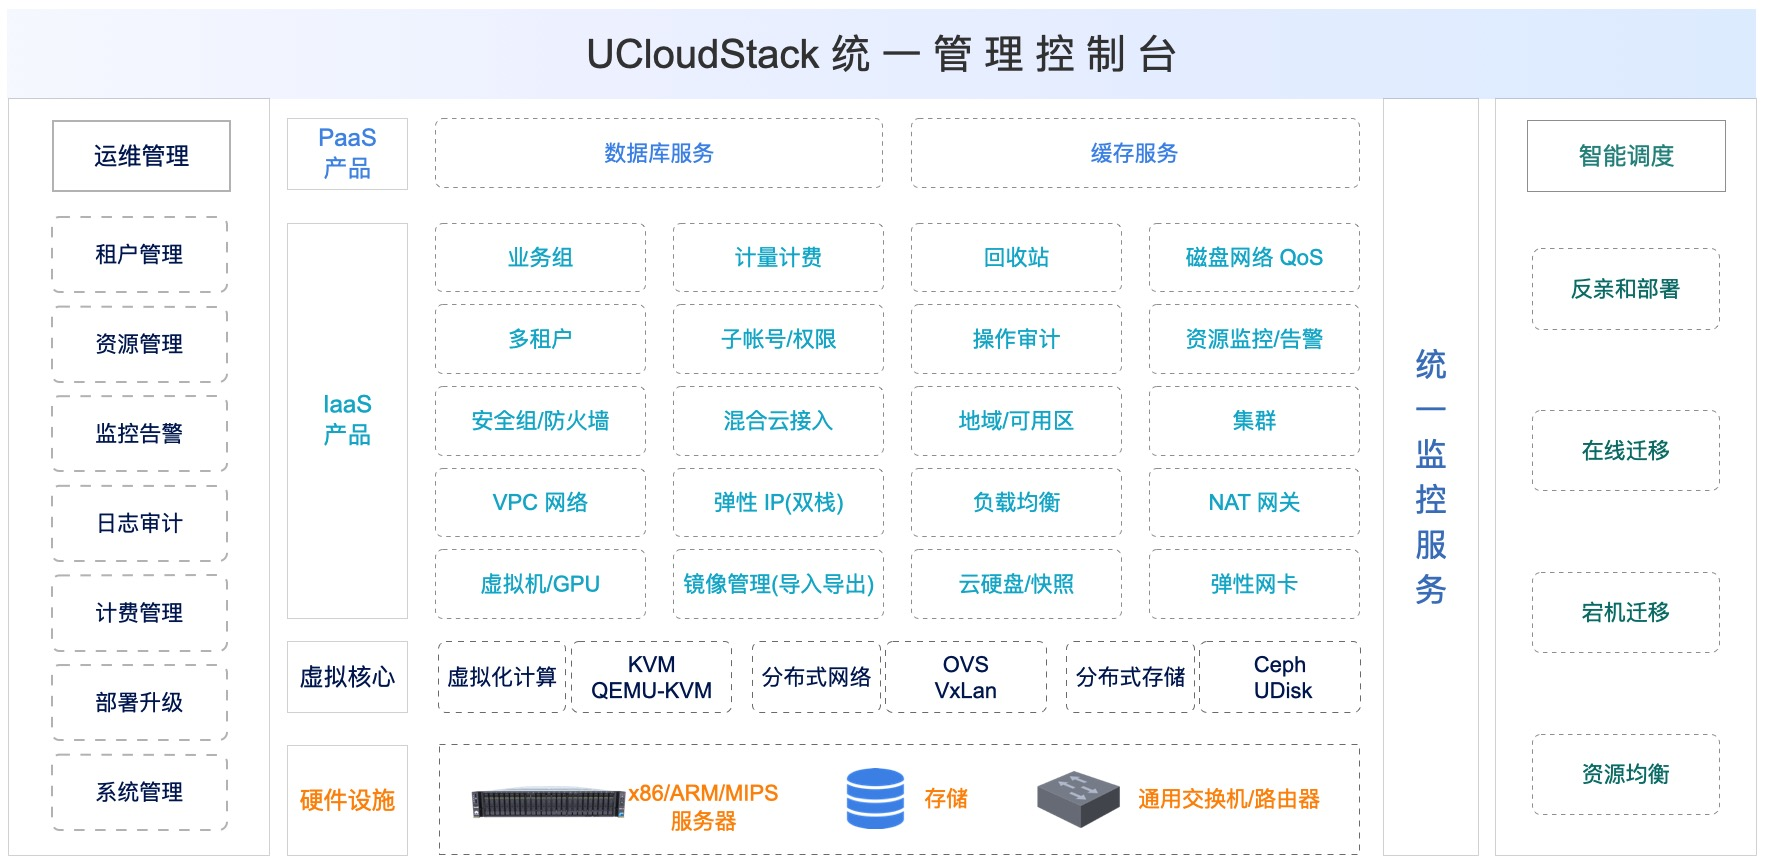
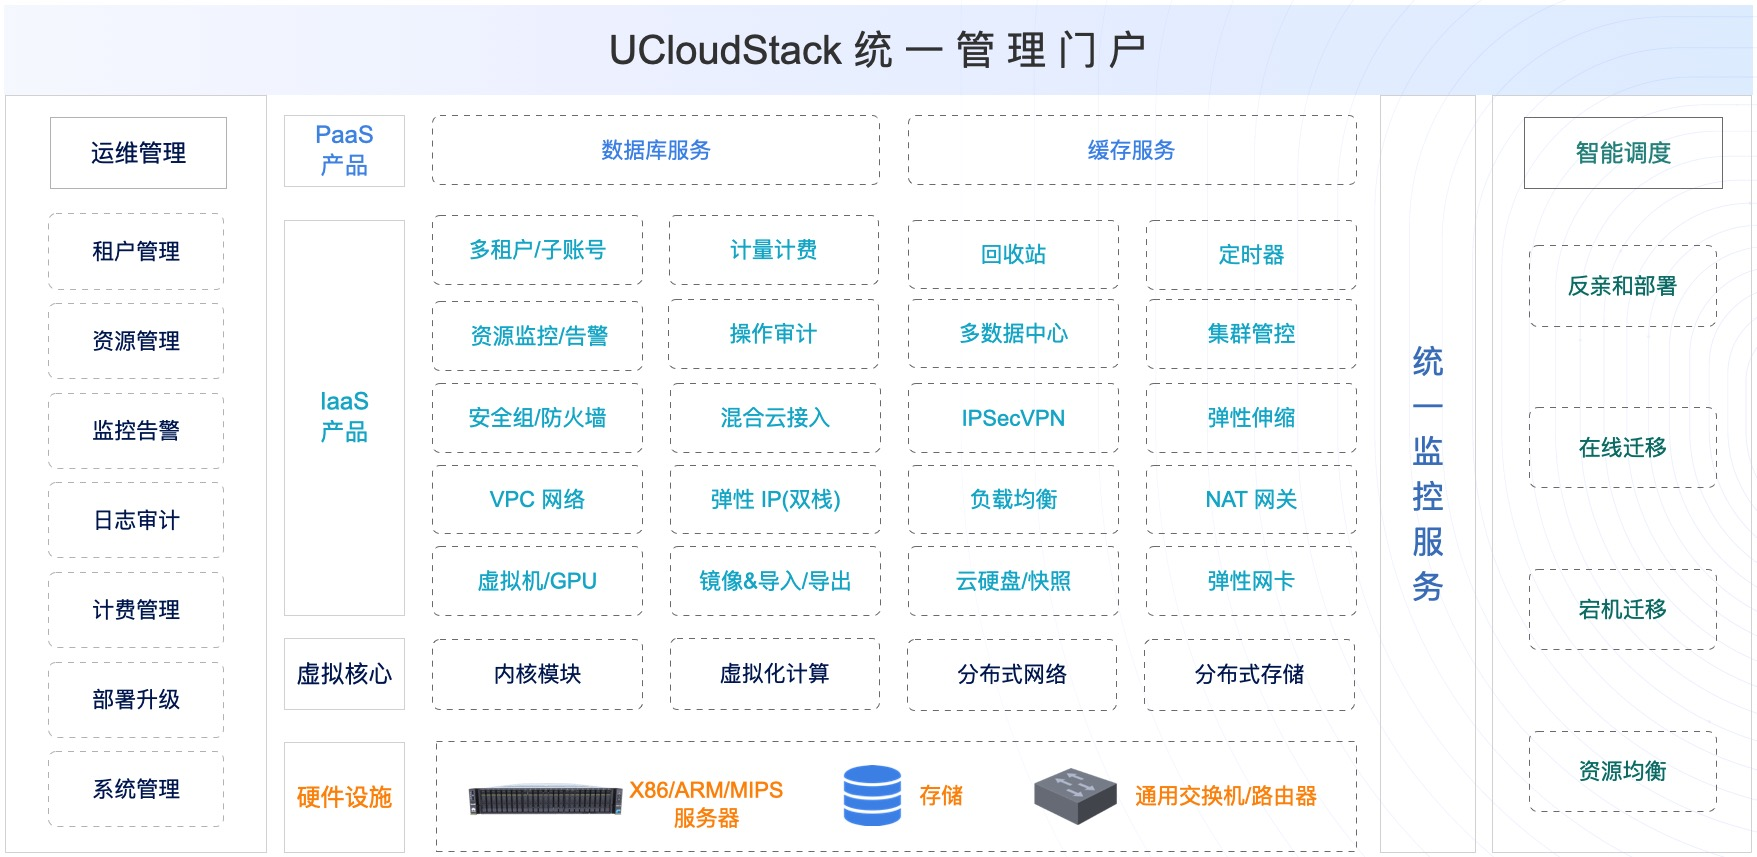
更新产品简介和用户手册的产品介绍

diff --git a/scenario.md b/scenario.md
@@ -2,69 +2,33 @@
 
 ### 虚拟化&云化
 
-**适用场景**
+通过将业务系统和内部应用部署至UCloudStack平台，可为企业提供一套集虚拟化、分布式存储、SDN 网络为一体的私有云平台。平台支持多数据中心管理，可将业务部署至多个数据中心构建灾备云或边缘计算，同时支持与公有云无缝打通，灵活调用公有云能力，帮助企业快速构建安全可靠的业务架构。
 
-* 业务应用虚拟化环境；
-* 私有云业务场景；
-* 资源统一管理；
-* 私有云国产化；
+### 业务快速交付
 
-**UCloudStack 应对方案**
+平台服务所见即所得，可通过自服务云管理平台一键部署并管理业务交付所需的基础设施和中件间，包括在线扩容、负载分发、数据库缓存及监控日志等应用基础环境服务能力；同时平台支持镜像导入导出，可方便快捷将业务系统迁移至云平台，并可对所有业务系统的资源进行统一管理。
 
-* 弹性计算、分布式网络及分布式存储构建基础设施虚拟化环境；
-* 软件定义网络功能，包括二层网络、子网、NAT 网关、负载均衡等；
-* 云平台可私有化轻量级部署，支持纯软件及软硬一体交付；
-* 提供云管理平台，对物理资源、虚拟资源及业务应用统一管理；
-* 兼容 x86 和 ARM 架构，适配国产化芯片、服务器及操作系统。
+### 超融合一体机
 
-### 快速交付
+平台提供一体机交付模式，多款机型应用不同业务场景，集成UCloudStack私有云平台，出厂预装开箱即用，服务模块热插拔可按需部署，提供虚拟化、网络、存储、数据库、缓存及云管等一系列云服务能力；同时可通过与IDC数据中心互联，构建混合云解决方案。
 
-**适用场景**
+### 企业专有云
 
-* 业务快速部署扩容；
-* 业务无缝迁移上云；
-* 应急业务系统快速交付；
-* 资源统一调度，数据存储安全性；
+UCloudStack提供租户控制台和管理员控制台，支持多租户、账户注册、计量计费等功能特性，同时为云平台管理者提供运营运维管理功能，包括资源管理、租户管理、价格配置、资源规格配置、部署升级及监控日志等服务，为企业提供行业专有云解决方案。
 
-**UCloudStack 应对方案**
+![industry](_media/industry.png)
 
-* 公有云一致体验的简捷界面，一键快速部署；
-* 可视化运维，即开即用，支持在线扩容；
-* 提供在线迁移产品及方案，快速迁移上云；
-* 智能调度系统，保证所有计算、存储、网络资源的统一合理调度；
-* 分布式存储系统，数据三副本存储，保证数据存储安全性。
+UCloudStack 轻量级私有云属于 IaaS+PaaS 复合型产品，并可按需搭载大数据、安全屋、AI 等公有云产品，适用于全行业客户需要云化且私有部署的业务应用上云场景，典型行业如下：
 
-### 开发测试环境
+* **政府、央企、军工、交通、制造型企业**
 
-**适用场景**
+  对外承担公共服务职责，内外部业务应用系统和商用软件需要快速交付、资源共享、智能调度及统一管理等上云需求的行业客户。
 
-- POC 演示验证；
-- 业务产品 Demo 展示；
-- 教育医疗实验信息环境；
-- 政府军工科研信息环境；
+* **泛互联网行业，如B2B电商、大数据、教育等企业**
 
-**UCloudStack 应对方案**
+  需要构建行业专属云，结合自有SaaS业务为其用户提供整体解决方案的行业客户。
 
-- 1 台服务器即可 POC ，同时提供超融合云一体机；
-- 多租户隔离并共享底层物理资源，多实验环境互不影响；
-- 计量计费，实现多租户资源按时、按月、按年计费；
-- 支持 GPU 虚拟机资源，应对人工智能及科研信息环境；
-- 磁盘/网络 QoS 、安全组、配额，支撑多租户实验环境。
+* **人工智能和科研实验室行业**
 
-### 应用基础环境
-
-**适用场景**
-
-- 5G 边缘计算业务；
-- 混合云及灾备云；
-- SaaS 应用的基础运行环境；
-- IT 软硬件一体交付运维；
-
-**UCloudStack 应对方案**
-
-- 管理计算可分离部署，支持跨地域统一管理所有节点；
-- 混合云接入支持与 IDC 数据中心及物理网络互通，构建混合云环境；
-- 支持地域/可用区，通过跨可用区容灾 LB 及 DB ，组建两地三中心；
-- 提供计算、存储、网络、数据库及缓存服务，为 SaaS 应用提供可靠基础环境；
-- 虚拟化 IT 基础设施，云化部署业务服务，混合接入数据中心，统一云管理及运营管理平台。
+  需要大量可快速交付且私有化部署的虚拟化环境，用于科研项目和训练系统的快速部署和管理的行业客户。
 

diff --git a/README.md b/README.md
@@ -2,21 +2,20 @@
 
 ---
 
-UCloudStack 是一个企业专有云 IaaS+PaaS 平台，提供虚拟化、SDN 网络、分布式存储、数据库缓存等核心服务的统一管理、资源调度编排、多租户管理、监控日志及云运营运维管理控制台和 APIs 等一整套云资源管理能力，帮助更多企业数字化转型。
+UCloudStack 企业私有云平台，提供虚拟化、SDN 网络、分布式存储、数据库缓存等核心服务的统一管理、资源调度、监控日志及运营运维等一整套云资源管理能力，助力企业数字化转型。
 
 ![core](_media/core.png)
 
-UCloudStack 定位为新一代轻量级企业专有云平台，1 台服务器可 POC 验证，3 台服务器即可构建生产环境，提供纯软件交付、软硬一体交付及超融合一体机交付等解决方案，针对受安全或合规限制，短期无法使用公有云，但有云化或虚拟化需求的用户场景。
+平台基于 UCloud 公有云基础架构，复用内核及核心虚拟化组件，将公有云架构私有化部署，具有自主可控、稳定可靠、持续进化及开放兼容等特点，企业可通过控制台或 APIs 快速构建资源及业务，支持与公有云无缝打通，灵活调用公有云能力，帮助企业快速构建安全可靠的业务架构。
 
-平台具有安全稳定、便捷高效、智能可靠、异构兼容四大特性，用户可通过管理控制台或 APIs 快速安全的构建和部署业务资源及数据中心，支持与 UCloud 公有云无缝打通，灵活调用公有云能力，帮助用户构建一个安全可靠的混合云架构。
-
-UCloudStack 基于多年公有云基础架构，通过纯软件定义实现高稳定、高可用及高兼容性的云平台，兼容 x86 和 ARM 架构，不强行绑定硬件及品牌，支持已有设备及传统商业存储的异构及统一管理，有效降低用户管理维护成本；同时产品通过与国产化飞腾芯片、华为鲲鹏及银河麒麟操作系统的兼容性测试，为用户提供一套安全可靠且自主可控的云服务平台。
+UCloudStack定位为轻量级交付，3 节点即可构建生产环境且可平滑扩容，不强行绑定硬件及品牌，兼容 X86 和ARM 架构，并提供统一资源调度和管理，支持纯软件、超融合一体机及一体机柜多种交付模式，有效降低用户管理维护成本，为用户提供一套安全可靠且自主可控的云服务平台。
 
 ### 文档目录
 
 - 产品简介
 
   - [产品概述](UCloudStack/README.md)
+  - [客户痛点](UCloudStack/painpoint.md)
   - [产品架构](UCloudStack/arch.md)
   - [核心功能](UCloudStack/features.md)
   - [产品特性](UCloudStack/advantages.md)

diff --git a/painpoint.md b/painpoint.md
@@ -1,0 +1,38 @@
+# 客户痛点&解决方案
+
+### 自建私有云的痛点
+
+* 可控性差
+
+  业界基于开源架构封装的私有云核心组件和服务源自社区，可控性差且可靠性未经验证，平台特性升级受限于社区且需专精运维人员，同时开源框架构繁杂，部署实施环节复杂，实施难度大。
+
+* 投入成本大
+
+  OEM 公有云直接部署的专有云平台，所有服务均需独立的服务器集群，起始部署规模较大且通常限制硬件架构及品牌，部署实施需要投入大量基础设施和人力资源；在运维方面通常需要托管运维，建设成本较高。
+
+* 运维复杂
+
+  自建数据中心及通用虚拟化系统，对于业务构建所需的数据库、缓存、负载均衡等一系列应用，需自己通过虚拟机进行搭建并维护，同时还需考虑服务的集群部署、监控、日志、备份、容灾及可靠性和可用性等。
+
+* 兼容性差
+
+  通用数据中心及虚拟化系统，对国产化硬件、操作系统、中间件的适配及兼容性较差。
+
+### UCloudStack 解决之道
+
+* 可控可靠
+
+  UCloudStack 采用非开源架构，基于公有云自主研发，复用内核及核心虚拟化组件，将公有云部署规模重构为可运营、可运维、可快速交付且可私有化交付的云平台，可控性高且可靠性经上万家企业验证。
+
+* 轻量构建
+
+  平台所有产品服务使用统一底层资源池，所有产品无需准备专用服务器集群，3节点即可轻量构建生产环境，规模轻量且可水平扩展，支持自动化一键部署并提供平滑升级能力，一个运维人员即可轻松管理。
+
+* 丰富组件
+
+  公有云一致用户体验的自服务平台，除基础 IaaS 产品外，为企业级用户提供高可用、高可靠且可自服务的负载均衡、NAT网关、IPSecVPN、数据库服务及缓存服务等 PaaS 类产品服务。
+
+* 兼容性高
+
+  平台本身不绑定硬件架构及品牌，兼容X86、ARM、MIPS等主流架构，可异构搭建并进行统一资源管理；同时已适配信创体系硬件、操作系统及中件间，如华为泰山加鲲鹏、飞腾加银可麒麟、UOS 及南大通用数据库等。
+

diff --git a/_sidebar.md b/_sidebar.md
@@ -4,6 +4,7 @@
 - 产品简介
 
   - [产品概述](UCloudStack/README.md)
+  - [客户痛点](UCloudStack/painpoint.md)
   - [产品架构](UCloudStack/arch.md)
   - [核心功能](UCloudStack/features.md)
   - [产品特性](UCloudStack/advantages.md)
